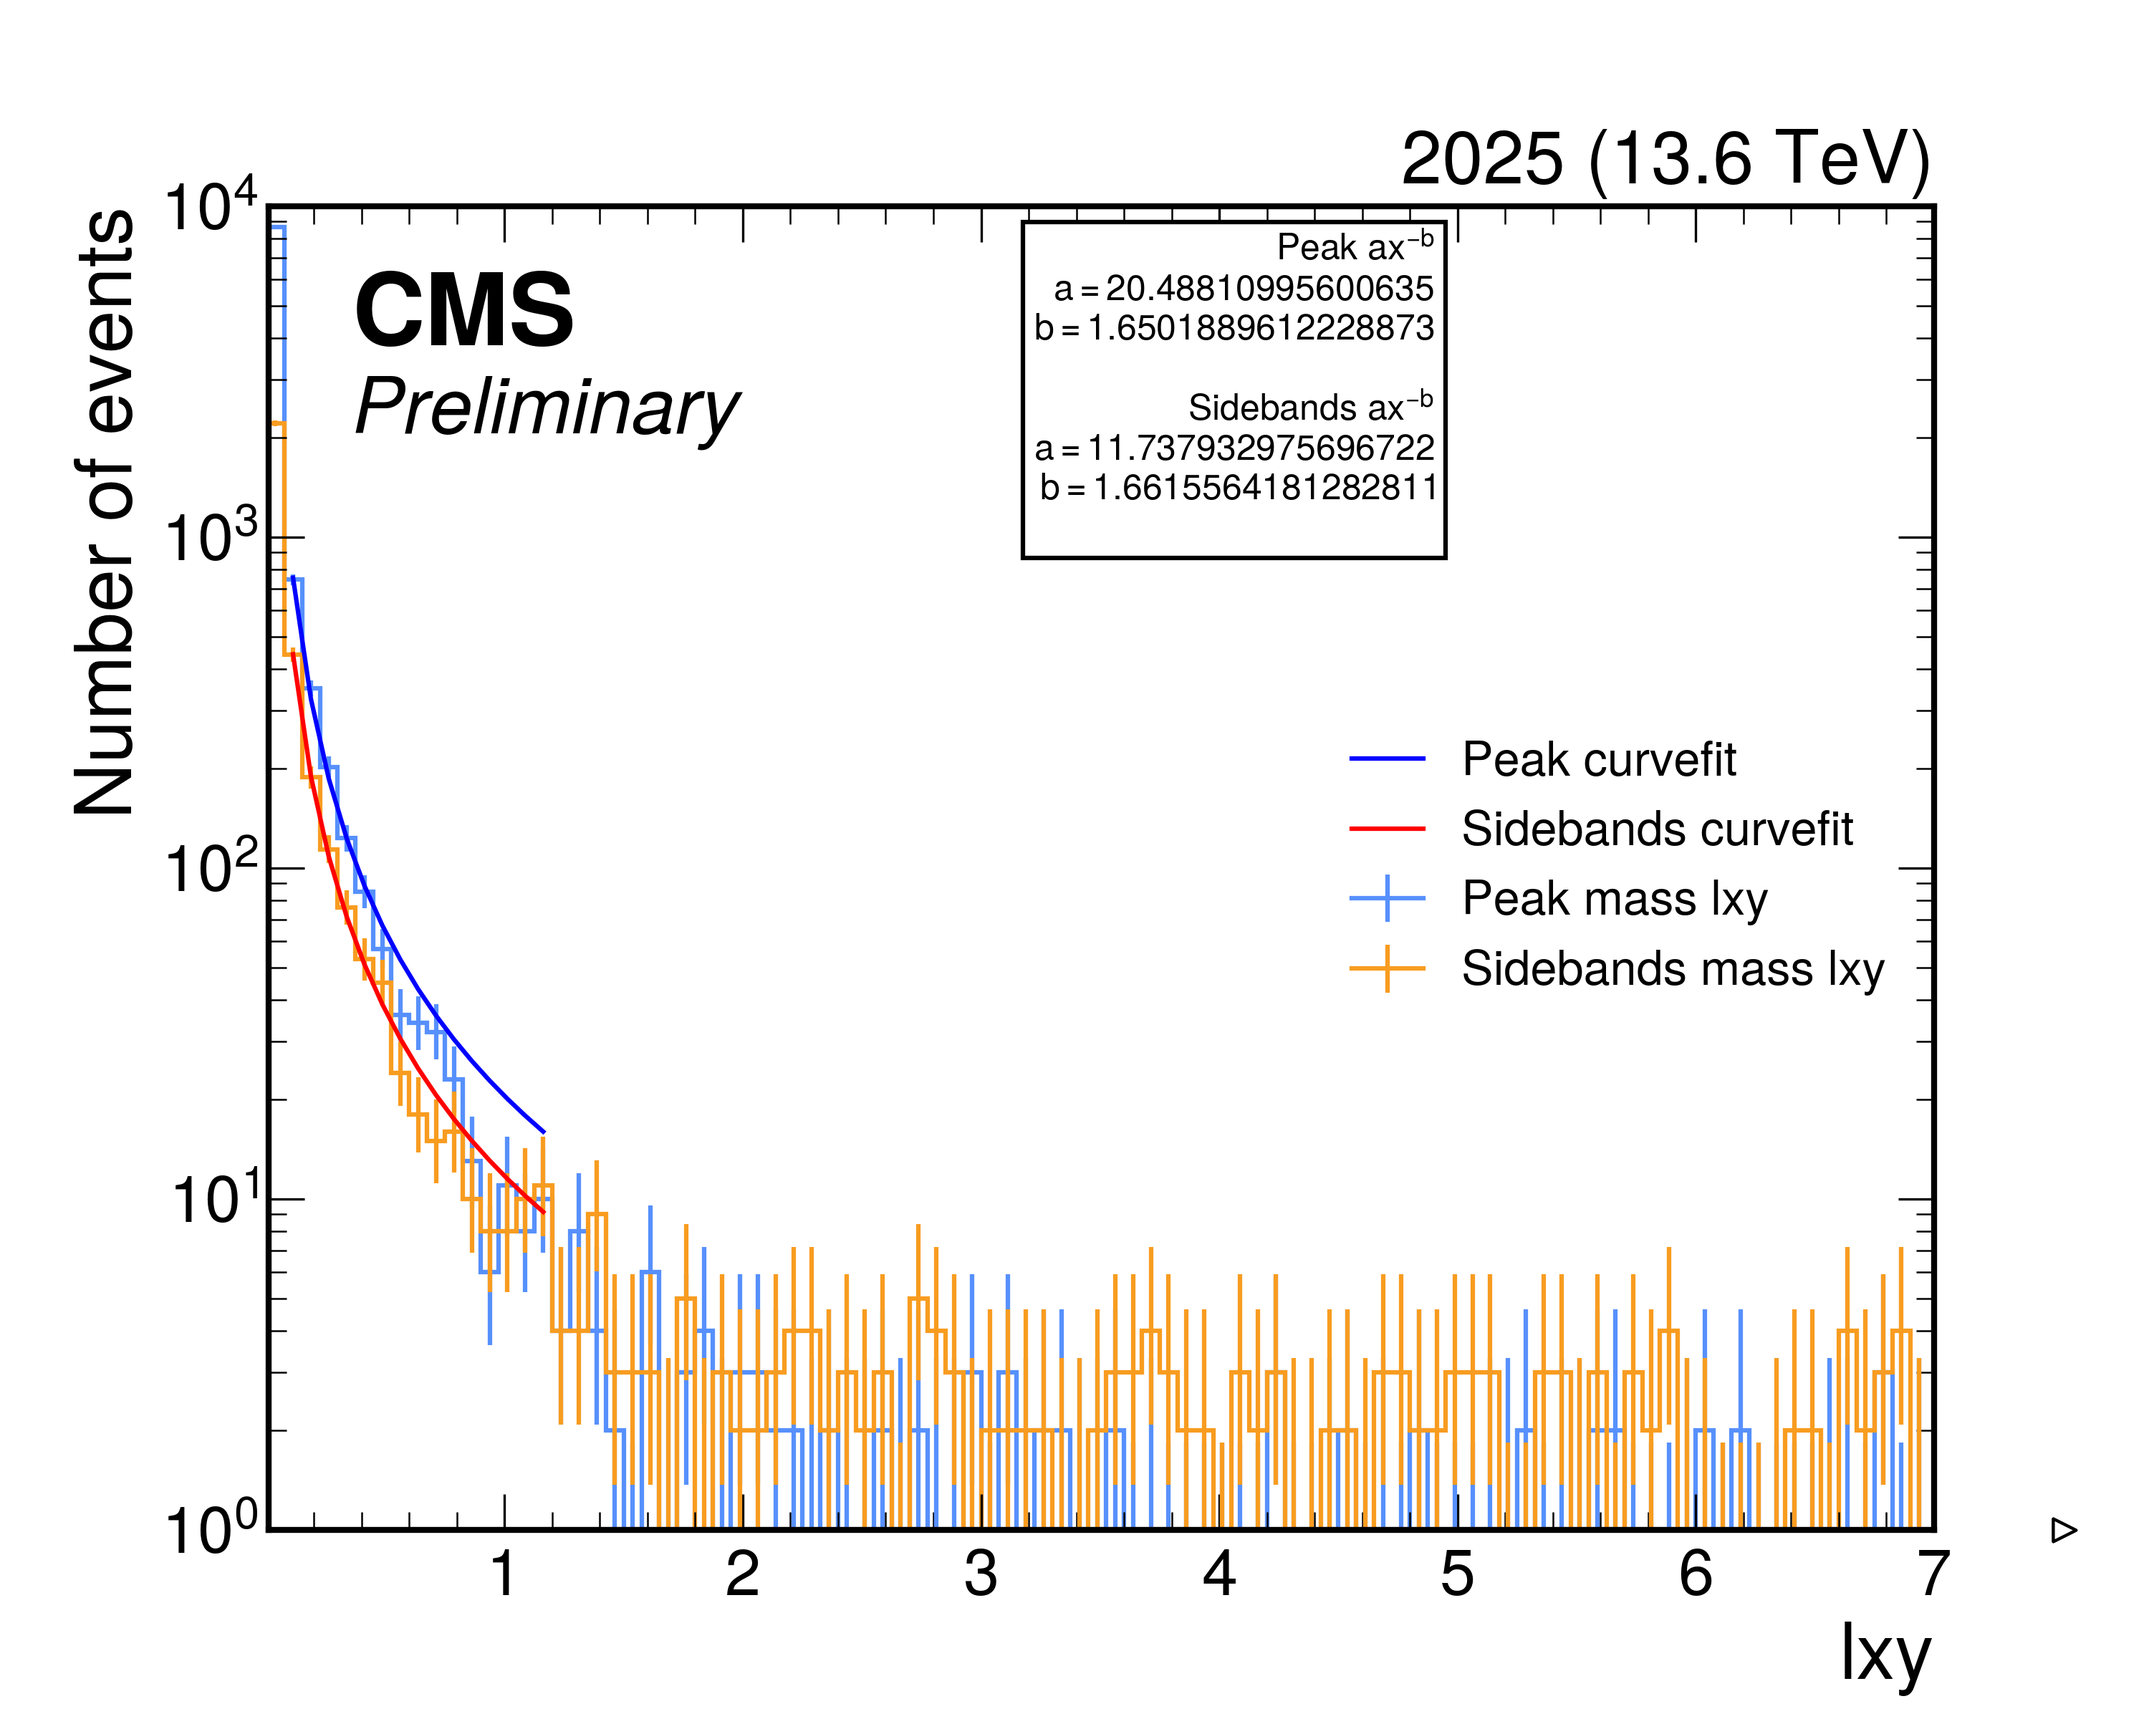
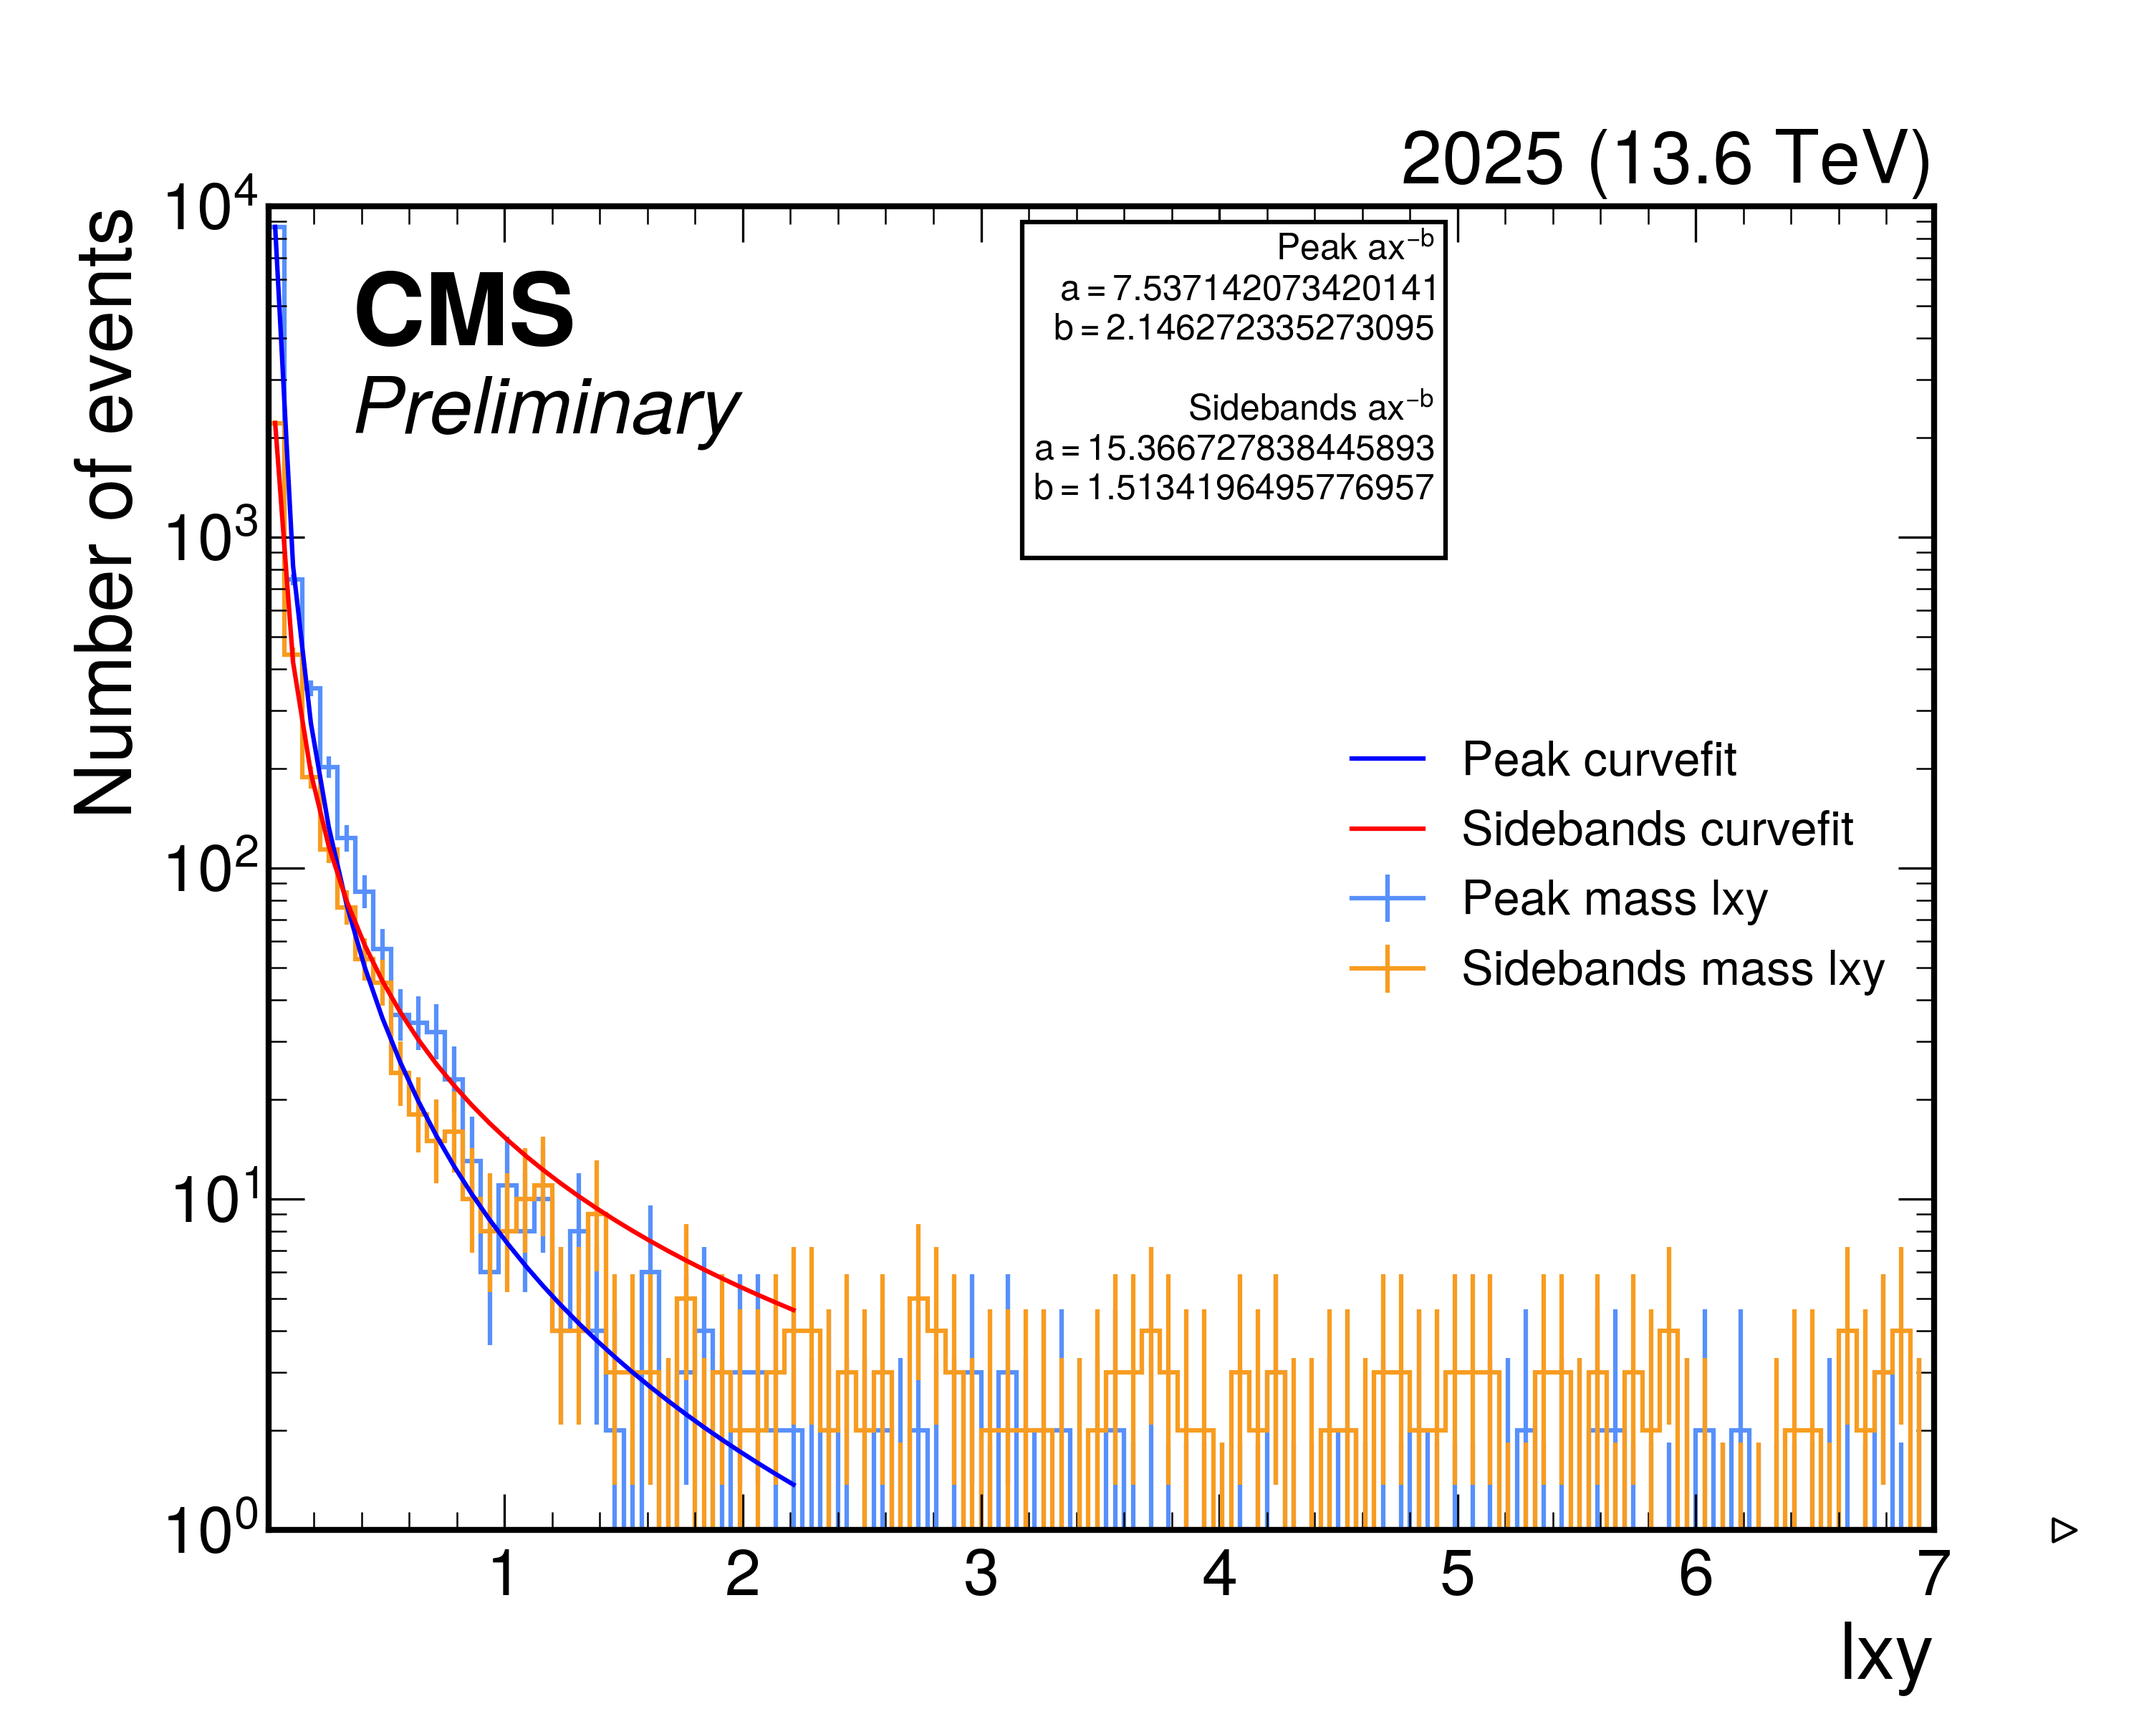
Give it some more data back

diff --git a/draw.py b/draw.py
@@ -54,8 +54,8 @@ sidebands_bin_centers = h_lxy_sidebands.axes[0].centers
 print(peak_bin_values)
 print(peak_bin_centers)
 # print(sidebands_bin_values)
-center_minimum = 1
-center_maximum = 16
+center_minimum = 0
+center_maximum = 30
 pk_param, pk_param_cov = curve_fit(func, peak_bin_centers[center_minimum:center_maximum:], peak_bin_values[center_minimum:center_maximum:])
 sb_param, sb_param_cov = curve_fit(func, sidebands_bin_centers[center_minimum:center_maximum:], sidebands_bin_values[center_minimum:center_maximum:])
 
